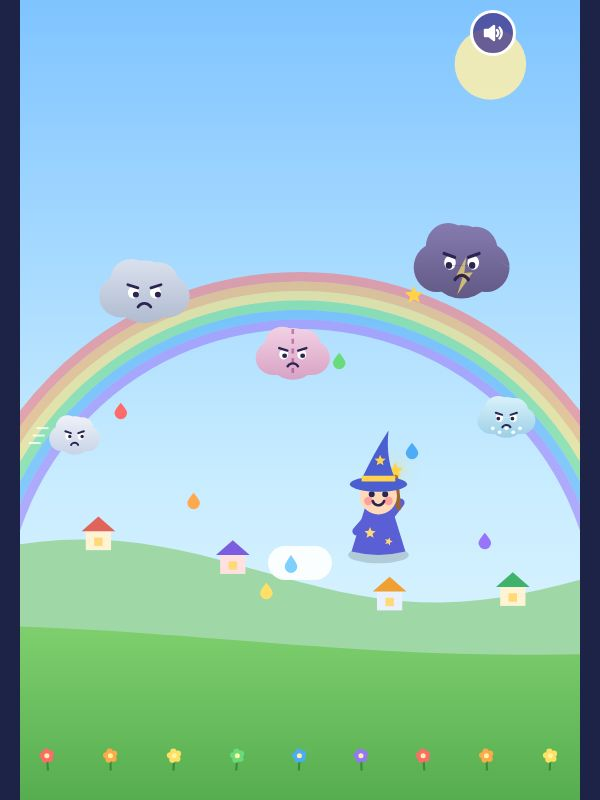
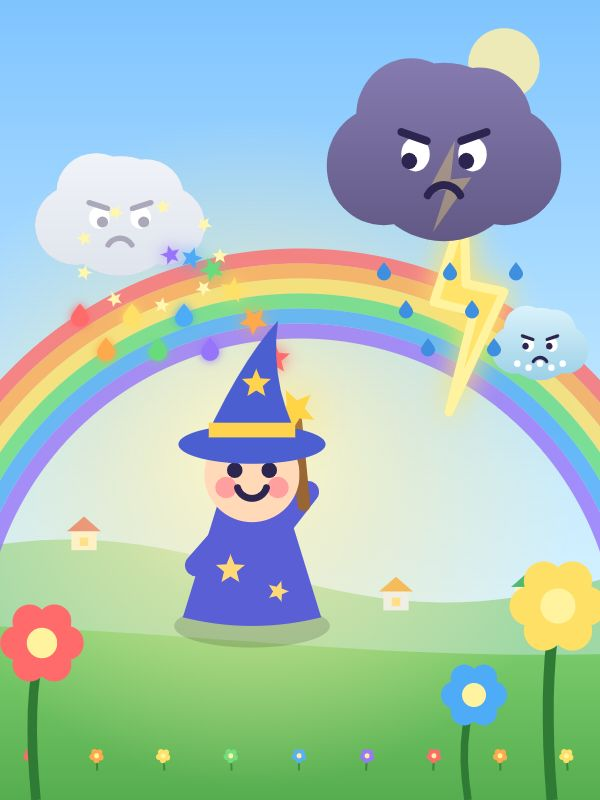
Le Petit Sorcier et les Nuages : plein écran sur ordinateur et affiche
Le jeu était dessiné dans une colonne de 560 px au milieu de l'écran. Le
décor remplit maintenant toute la largeur, la zone de jeu s'élargit jusqu'à
1,15 fois la hauteur (bords marqués d'un voile clair), la barre d'infos va
aux bords de l'écran ; rien ne change sur téléphone. Affiche
(window.JEL_AFFICHE) et jaquette tirée d'elle.

diff --git a/games/le-petit-sorcier-et-les-nuages/index.html b/games/le-petit-sorcier-et-les-nuages/index.html
@@ -1456,7 +1456,9 @@
 <style>
   * { box-sizing: border-box; }
   html, body { margin: 0; height: 100%; overflow: hidden; background: #1d2247; font-family: system-ui, sans-serif; color: #2b2550; touch-action: none; -webkit-user-select: none; user-select: none; -webkit-tap-highlight-color: transparent; }
-  #plateau { position: fixed; top: 0; bottom: 0; left: 50%; transform: translateX(-50%); width: 100%; max-width: 560px; overflow: hidden; background: #bfe3ff; }
+  /* Plein écran sur toutes les largeurs : sur ordinateur, le décor va jusqu'aux bords et la zone de jeu
+     s'élargit (redim) ; seules les fenêtres (.carte) gardent une largeur raisonnable. */
+  #plateau { position: fixed; inset: 0; overflow: hidden; background: #bfe3ff; }
   #c { position: absolute; inset: 0; width: 100%; height: 100%; display: block; touch-action: none; }
   .rond { position: absolute; width: 46px; height: 46px; border-radius: 50%; border: 3px solid #fff; background: rgba(66, 54, 140, .78); color: #fff; display: flex; align-items: center; justify-content: center; cursor: pointer; padding: 0; z-index: 5; }
   .rond svg { width: 24px; height: 24px; }
@@ -1827,12 +1829,17 @@ function son(nom, x) { try { SONS[nom] && SONS[nom](x); } catch (e) { /* son ind
 
 /* ---------- Canvas ---------- */
 const cv = $('c'), cx = cv.getContext('2d');
-let W = 400, H = 800, S = 1, KV = 1, DPR = 1;
+// W : largeur de la zone de jeu (nuages, sorcier, pluie) ; WE : largeur de l'écran ; X0 : bord gauche de la zone.
+// Sur téléphone en portrait, W = WE. Sur un écran large, la zone s'élargit jusqu'à 1,15 fois la hauteur
+// (le sorcier doit pouvoir aller sous chaque nuage) et le décor (ciel, collines, prairie) remplit le reste.
+let W = 400, WE = 400, X0 = 0, H = 800, S = 1, KV = 1, DPR = 1;
 function redim() {
   const r = $('plateau').getBoundingClientRect();
-  W = Math.max(280, r.width); H = Math.max(420, r.height);
+  WE = Math.max(280, r.width); H = Math.max(420, r.height);
+  W = Math.min(WE, Math.max(400, Math.round(H * 1.15)));
+  X0 = (WE - W) / 2;
   DPR = Math.min(2, window.devicePixelRatio || 1);
-  cv.width = Math.round(W * DPR); cv.height = Math.round(H * DPR);
+  cv.width = Math.round(WE * DPR); cv.height = Math.round(H * DPR);
   S = borne(Math.min(W / 400, H / 760), 0.72, 1.35);
   KV = H / 800;
   if (G) { G.sorc.x = borne(G.sorc.x, 20 * S, W - 20 * S); G.sorc.y = borne(G.sorc.y, zoneHaut(), zoneBas()); }
@@ -2529,11 +2536,29 @@ function dessinerIcone(c, id, x, y, r, t) {
   c.restore();
 }
 
+// Dessine fn sur toute la largeur de l'écran (W = WE pendant l'appel) : décor et barre d'infos.
+function pleineLargeur(fn) { const w = W; W = WE; try { fn(); } finally { W = w; } }
+
+// Bords de la zone de jeu sur un écran large : un voile clair et une lisière douce, pour qu'on voie
+// jusqu'où vont les nuages et le sorcier sans couper le paysage.
+function dessinerBordsZone(c) {
+  if (X0 < 1) return;
+  for (const cote of [0, 1]) {
+    const x = cote ? W : 0, d = cote ? 1 : -1, l = Math.min(X0, 70);
+    const gr = c.createLinearGradient(x, 0, x + d * l, 0);
+    gr.addColorStop(0, 'rgba(255,255,255,0)'); gr.addColorStop(1, 'rgba(255,255,255,.28)');
+    c.fillStyle = gr; c.fillRect(cote ? x : x - l, 0, l, sol());
+    c.fillStyle = 'rgba(255,255,255,.28)'; c.fillRect(cote ? x + l : -X0, 0, X0 - l, sol());
+  }
+}
+
 function dessinerJeu(c) {
   const g = G, t = g.t;
   c.save();
   if (g.secousse > 0) c.translate(hasard(-5, 5) * g.secousse * 2, hasard(-5, 5) * g.secousse * 2);
-  dessinerFond(c, t, g.hum);
+  pleineLargeur(() => dessinerFond(c, t, g.hum));
+  c.translate(X0, 0);
+  dessinerBordsZone(c);
   // Éclairs annoncés
   for (const e of g.eclairs) {
     if (!e.frappe) {
@@ -2554,10 +2579,11 @@ function dessinerJeu(c) {
   if (g.def.brouillard) {
     for (const cote of [0, 1]) {
       const w = W * 0.25 + Math.sin(t * 0.8 + cote * 2) * W * 0.04;
-      const x0 = cote ? W - w : 0;
+      // Le brouillard continue au-delà de la zone de jeu, jusqu'au bord de l'écran.
+      const x0 = cote ? W - w : -X0;
       const gr = c.createLinearGradient(cote ? W : 0, 0, cote ? W - w : w, 0);
       gr.addColorStop(0, 'rgba(236,240,248,.95)'); gr.addColorStop(0.7, 'rgba(236,240,248,.82)'); gr.addColorStop(1, 'rgba(236,240,248,0)');
-      c.fillStyle = gr; c.fillRect(x0, 0, w, sol());
+      c.fillStyle = gr; c.fillRect(x0, 0, w + X0, sol());
     }
   }
   // Pluie
@@ -2606,27 +2632,29 @@ function dessinerJeu(c) {
     if (!nuitCv || nuitCv.width !== cv.width || nuitCv.height !== cv.height) { nuitCv = document.createElement('canvas'); nuitCv.width = cv.width; nuitCv.height = cv.height; }
     const nc = nuitCv.getContext('2d');
     nc.setTransform(DPR, 0, 0, DPR, 0, 0);
-    nc.globalCompositeOperation = 'source-over'; nc.clearRect(0, 0, W, H);
-    nc.fillStyle = 'rgba(16,14,48,.8)'; nc.fillRect(0, 0, W, H);
+    // La nuit couvre tout l'écran : le calque est en coordonnées d'écran (zone décalée de X0).
+    nc.globalCompositeOperation = 'source-over'; nc.clearRect(0, 0, WE, H);
+    nc.fillStyle = 'rgba(16,14,48,.8)'; nc.fillRect(0, 0, WE, H);
     nc.globalCompositeOperation = 'destination-out';
-    const trou = (x, y, r) => { const gr = nc.createRadialGradient(x, y, 0, x, y, r); gr.addColorStop(0, 'rgba(0,0,0,1)'); gr.addColorStop(1, 'rgba(0,0,0,0)'); nc.fillStyle = gr; nc.beginPath(); nc.arc(x, y, r, 0, 6.28); nc.fill(); };
+    const trou = (x, y, r) => { x += X0; const gr = nc.createRadialGradient(x, y, 0, x, y, r); gr.addColorStop(0, 'rgba(0,0,0,1)'); gr.addColorStop(1, 'rgba(0,0,0,0)'); nc.fillStyle = gr; nc.beginPath(); nc.arc(x, y, r, 0, 6.28); nc.fill(); };
     trou(g.sorc.x, g.sorc.y - 30 * S, 170 * S);
     for (const l of g.lucioles) trou(l.x, l.y, 60 * S);
     for (const e of g.etoiles) trou(e.x, e.y, 34 * S);
-    if (g.eclairFlash > 0) { nc.fillStyle = `rgba(0,0,0,${g.eclairFlash * 3})`; nc.fillRect(0, 0, W, H); }
-    c.drawImage(nuitCv, 0, 0, W, H);
+    if (g.eclairFlash > 0) { nc.fillStyle = `rgba(0,0,0,${g.eclairFlash * 3})`; nc.fillRect(0, 0, WE, H); }
+    c.drawImage(nuitCv, -X0, 0, WE, H);
     // Yeux brillants des nuages et pluie lumineuse
     for (const n of g.nuages) { c.fillStyle = 'rgba(255,240,150,.9)'; c.beginPath(); c.arc(n.x - n.r * 0.26, n.y, n.r * 0.08, 0, 6.28); c.arc(n.x + n.r * 0.26, n.y, n.r * 0.08, 0, 6.28); c.fill(); }
     for (const p of g.pluie) { c.fillStyle = p.grele ? 'rgba(255,255,255,.9)' : 'rgba(140,200,255,.9)'; c.beginPath(); c.arc(p.x, p.y, (p.grele ? 5 : 3) * S, 0, 6.28); c.fill(); }
     for (const gt of g.gouttes) { c.fillStyle = gt.c; c.beginPath(); c.arc(gt.x, gt.y, 4 * S, 0, 6.28); c.fill(); }
   }
-  if (g.eclairFlash > 0) { c.fillStyle = `rgba(255,255,230,${g.eclairFlash})`; c.fillRect(0, 0, W, H); }
+  if (g.eclairFlash > 0) { c.fillStyle = `rgba(255,255,230,${g.eclairFlash})`; c.fillRect(-X0, 0, WE, H); }
   // Textes flottants (points)
   c.textAlign = 'center'; c.font = `800 ${Math.round(16 * S)}px system-ui, sans-serif`;
   for (const f of g.flottants) { c.globalAlpha = Math.max(0, f.vie); c.fillStyle = '#4a33a8'; c.fillText(f.txt, f.x + 1, f.y + 1); c.fillStyle = f.c; c.fillText(f.txt, f.x, f.y); }
   c.globalAlpha = 1;
   c.restore();
-  dessinerHud(c);
+  // Barre d'infos aux bords de l'écran (cœurs en haut à gauche, jauge sur toute la largeur).
+  pleineLargeur(() => dessinerHud(c));
 }
 let nuitCv = null;
 
@@ -2684,21 +2712,25 @@ function rondRect(c, x, y, w, h, r) {
 
 // Écran titre : la vallée, un arc-en-ciel, le sorcier et ses nuages grincheux.
 const decor = { etoiles: [], tir: 0.5 };
-function dessinerTitre(c, t, dt) {
+function dessinerTitre(c, t, dt) { pleineLargeur(() => dessinerTitreEcran(c, t, dt)); }
+function dessinerTitreEcran(c, t, dt) {
   dessinerFond(c, t, 0);
-  // Arc-en-ciel
-  ARC.forEach((col, i) => { c.strokeStyle = col; c.globalAlpha = 0.55; c.lineWidth = 9 * S; c.beginPath(); c.arc(W / 2, H * 0.78, W * 0.62 - i * 9 * S, Math.PI, 0); c.stroke(); });
+  // Arc-en-ciel (rayon limité par la hauteur : sur un écran large, il reste un arc entier)
+  const rayon = Math.min(W * 0.62, H * 0.62);
+  ARC.forEach((col, i) => { c.strokeStyle = col; c.globalAlpha = 0.55; c.lineWidth = 9 * S; c.beginPath(); c.arc(W / 2, H * 0.78, rayon - i * 9 * S, Math.PI, 0); c.stroke(); });
   c.globalAlpha = 1;
+  // Positions dans une zone centrée de largeur raisonnable (sur ordinateur, les nuages ne s'éparpillent pas).
+  const zw = Math.min(W, H * 1.15), zx = (W - zw) / 2;
   const nuages = [[0.2, 0.36, 34, 'grincheux'], [0.78, 0.33, 38, 'orage'], [0.5, 0.45, 28, 'diviseur'], [0.12, 0.55, 20, 'rapide'], [0.88, 0.52, 22, 'grele']];
-  const sx = W / 2 + Math.sin(t * 0.9) * W * 0.18, sy = Math.min(H * 0.7, H - 250);
-  nuages.forEach(([x, y, r, ty], i) => dessinerNuage(c, ty, W * x + Math.sin(t * 0.7 + i) * 12 * S, H * y + Math.sin(t + i) * 6 * S, r * S * 1.15, t + i, { regardX: sx, regardY: sy }));
+  const sx = W / 2 + Math.sin(t * 0.9) * zw * 0.18, sy = Math.min(H * 0.7, H - 250);
+  nuages.forEach(([x, y, r, ty], i) => dessinerNuage(c, ty, zx + zw * x + Math.sin(t * 0.7 + i) * 12 * S, H * y + Math.sin(t + i) * 6 * S, r * S * 1.15, t + i, { regardX: sx, regardY: sy }));
   // Étoiles décoratives lancées par le sorcier
   decor.tir -= dt;
   if (decor.tir <= 0) { decor.tir = 0.5; decor.etoiles.push({ x: sx + 10 * S * 1.6, y: sy - 46 * S * 1.6, rot: 0 }); }
   decor.etoiles.forEach((e, i) => { e.y -= 380 * KV * dt; e.rot += dt * 8; c.fillStyle = couleurBaguette(i); etoileForme(c, e.x, e.y, 9 * S, e.rot); c.fill(); });
   decor.etoiles = decor.etoiles.filter((e) => e.y > H * 0.3);
   // Gouttes d'arc-en-ciel qui tombent
-  for (let i = 0; i < 6; i++) { const y = (t * 50 * S + i * 90) % (H * 0.4) + H * 0.35; dessinerGoutte(c, W * (0.18 + i * 0.13), y, 6 * S, ARC[i]); }
+  for (let i = 0; i < 6; i++) { const y = (t * 50 * S + i * 90) % (H * 0.4) + H * 0.35; dessinerGoutte(c, zx + zw * (0.18 + i * 0.13), y, 6 * S, ARC[i]); }
   dessinerSorcier(c, sx, sy, S * 1.6, t, { bulle: false });
 }
 
@@ -3170,13 +3202,79 @@ document.addEventListener('visibilitychange', () => { if (document.visibilitySta
 window.JEL_SAVE.surFermeture(() => { if (G && !G.fini && ['jeu', 'pause', 'choix', 'intro'].includes(ecran)) sauver(G.n + 1); });
 if (window.JEL_I18N && window.JEL_I18N.surChangement) window.JEL_I18N.surChangement(() => { if (ecran === 'titre') allerTitre(); });
 
+/* ---------- Affiche (jaquette du jeu) ---------- */
+// Avec window.JEL_AFFICHE (posé par le robot du site, jamais par le jeu) : une scène composée, sans
+// interface ni texte, d'où sort la jaquette (CONSIGNES-JEU.md, section 5). Le petit sorcier en grand lance
+// ses étoiles sur un nuage grincheux, un nuage d'orage gronde, l'arc-en-ciel brille derrière lui.
+function dessinerAffiche() {
+  redim();
+  const c = cx, t = 1.3;
+  c.setTransform(DPR, 0, 0, DPR, 0, 0);
+  pleineLargeur(() => {
+    const k = Math.min(W / 600, H / 800);
+    dessinerFond(c, t, 0);
+    // Lumière chaude derrière le sorcier
+    const sx = W * 0.42, sy = H * 0.75, s = (H * 0.4) / 74;
+    const halo = c.createRadialGradient(sx, sy - 34 * s, 10 * k, sx, sy - 34 * s, H * 0.42);
+    halo.addColorStop(0, 'rgba(255,248,200,.95)'); halo.addColorStop(0.45, 'rgba(255,236,170,.45)'); halo.addColorStop(1, 'rgba(255,236,170,0)');
+    c.fillStyle = halo; c.fillRect(0, 0, W, H);
+    // Grand arc-en-ciel
+    ARC.forEach((col, i) => { c.strokeStyle = col; c.globalAlpha = 0.8; c.lineWidth = 15 * k; c.beginPath(); c.arc(W * 0.5, H * 0.82, H * 0.5 - i * 15 * k, Math.PI, 0); c.stroke(); });
+    c.globalAlpha = 1;
+    // Éclair du nuage d'orage, qui frappe la prairie à droite
+    const ox = W * 0.74, oy = H * 0.19;
+    c.strokeStyle = '#fff3a0'; c.lineWidth = 9 * k; c.lineJoin = 'round'; c.shadowColor = '#ffe36b'; c.shadowBlur = 28 * k;
+    c.beginPath(); c.moveTo(ox + 20 * k, oy + 60 * k); c.lineTo(ox - 10 * k, oy + 150 * k); c.lineTo(ox + 30 * k, oy + 160 * k); c.lineTo(ox + 5 * k, oy + 260 * k); c.lineTo(ox + 60 * k, oy + 140 * k); c.lineTo(ox + 22 * k, oy + 132 * k); c.closePath();
+    c.fillStyle = '#ffe36b'; c.fill(); c.stroke(); c.shadowBlur = 0;
+    // Nuages : orage (en haut à droite), grincheux touché (à gauche), grêle (plus loin)
+    dessinerNuage(c, 'grele', W * 0.9, H * 0.43, 46 * k, t + 2, { regardX: sx, regardY: sy - 120 * k });
+    dessinerNuage(c, 'orage', ox, oy, 112 * k, t, { regardX: sx, regardY: sy - 120 * k });
+    const gx = W * 0.2, gy = H * 0.27;
+    dessinerNuage(c, 'grincheux', gx, gy, 78 * k, t + 1, { regardX: sx, regardY: sy, flash: 0.35 });
+    // Pluie du nuage d'orage
+    for (let i = 0; i < 7; i++) dessinerGoutte(c, ox - 60 * k + i * 22 * k, oy + 120 * k + (i % 3) * 38 * k, 7 * k, '#3f8fe0');
+    // Étoiles lancées par la baguette jusqu'au nuage grincheux, qui éclatent sur lui
+    const bx = sx + 10 * s, by = sy - 46 * s;
+    for (let i = 0; i < 6; i++) {
+      const p = (i + 1) / 7, x = bx + (gx + 30 * k - bx) * p, y = by + (gy + 40 * k - by) * p - Math.sin(p * Math.PI) * 50 * k;
+      c.fillStyle = ARC[i % 6]; c.shadowColor = ARC[i % 6]; c.shadowBlur = 16 * k;
+      etoileForme(c, x, y, (16 - i * 1.2) * k, i * 0.7); c.fill();
+    }
+    c.shadowBlur = 0;
+    c.fillStyle = '#fff6b0';
+    for (let i = 0; i < 9; i++) { const a = i * 0.7; etoileForme(c, gx + 30 * k + Math.cos(a) * 70 * k, gy + 40 * k + Math.sin(a) * 50 * k, 8 * k, a); c.fill(); }
+    // Gouttes d'arc-en-ciel qui tombent du nuage touché
+    for (let i = 0; i < 6; i++) { c.shadowColor = ARC[i]; c.shadowBlur = 10 * k; dessinerGoutte(c, gx - 40 * k + i * 26 * k, gy + 100 * k + (i % 2) * 34 * k, 9 * k, ARC[i]); }
+    c.shadowBlur = 0;
+    // Le petit sorcier, en grand
+    dessinerSorcier(c, sx, sy, s, 0.4, { bulle: false });
+    // Premier plan : grandes fleurs et herbes dans les coins du bas
+    [[W * 0.06, H * 0.97, 1.9], [W * 0.92, H * 0.95, 2.2], [W * 0.78, H * 1.0, 1.5]].forEach(([fx, fy, f], i) => {
+      c.strokeStyle = '#2f7a34'; c.lineWidth = 5 * k * f;
+      c.beginPath(); c.moveTo(fx, H); c.quadraticCurveTo(fx - 10 * k, fy - 40 * k * f, fx + 6 * k, fy - 70 * k * f); c.stroke();
+      const hx = fx + 6 * k, hy = fy - 70 * k * f;
+      c.fillStyle = ARC[(i * 2) % 6];
+      for (let p = 0; p < 6; p++) { const a = p * 1.047; c.beginPath(); c.arc(hx + Math.cos(a) * 13 * k * f, hy + Math.sin(a) * 13 * k * f, 9 * k * f, 0, 6.28); c.fill(); }
+      c.fillStyle = '#fff3a0'; c.beginPath(); c.arc(hx, hy, 8 * k * f, 0, 6.28); c.fill();
+    });
+  });
+}
+function demarrerAffiche() {
+  for (const el of document.querySelectorAll('.ecran, .rond, #toast, .jel-langue')) el.style.setProperty('display', 'none', 'important');
+  dessinerAffiche();
+  window.addEventListener('resize', dessinerAffiche);
+}
+
 /* ---------- Démarrage ---------- */
 chargerProg();
 document.title = tr('titre');
 majBoutonSon();
 redim();
-allerTitre();
-requestAnimationFrame(boucle);
+if (window.JEL_AFFICHE) demarrerAffiche();
+else {
+  allerTitre();
+  requestAnimationFrame(boucle);
+}
 </script>
 </body>
 </html>
